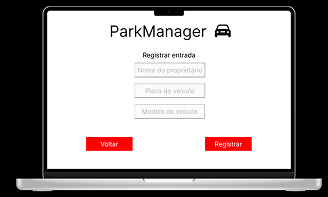
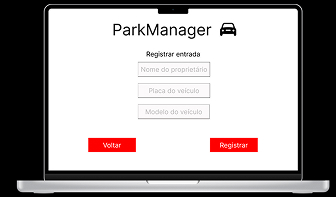
Footer adicionado
Utilizado código ASCII e ícone favicon adicionado

diff --git a/css/style.css b/css/style.css
@@ -12,6 +12,7 @@ main {
     flex-direction: column;
     align-items: center;
     justify-content: center;
+    text-align: center;
 }
 
 .titulo {
@@ -36,7 +37,7 @@ main {
     font-size: 40px;
     font-family: "Gulzar", sans-serif;
     display: flex;
-    margin: 20px;
+    margin: 17px;
 }
 
 .botao {
@@ -65,7 +66,9 @@ main {
 
 .comofunciona {
     font-size: 35px;
-    margin: 55px;
+    margin: 65px 0px 20px 0px;
+    align-items: center;
+    justify-content: center;
 }
 
 .telas {
@@ -81,15 +84,15 @@ main {
 }
 
 .tela2 {
-    width: 656px;
+    width: 672px;
     height: 394px;
     background-size: 100%;
     background-image: url(../img/tela2-desk.jpg);
 }
 
 .tela3 {
-    width: 640px;
-    height: 386px;
+    width: 672px;
+    height: 394px;
     background-size: 100%;
     background-image: url(../img/tela3-desk.jpg);
 }
@@ -98,12 +101,25 @@ main {
     display: flex;
     flex-direction: column;
     align-items: center;
-    text-align: center;
     gap: 50px;
-    margin-top: 50px;
+    margin-top: 110px;
 }
 
 .grupo p {
     font-size: 50px;
     margin-bottom: 10px;
+}
+
+footer {
+    display: flex;
+    font-size: 32px;
+    gap: 10px;
+    justify-content: center;
+    margin: 30px;
+}
+
+.instagram,
+.whatsapp {
+    display: flex;
+    gap: 10px;
 }

diff --git a/index.html b/index.html
@@ -15,6 +15,7 @@
     <link rel="preconnect" href="https://fonts.googleapis.com">
     <link rel="preconnect" href="https://fonts.gstatic.com" crossorigin>
     <link href="https://fonts.googleapis.com/css2?family=Gulzar&display=swap" rel="stylesheet">
+    <link rel="icon" href="./svg/carro-logo.svg" type="image/svg+xml">
     <link rel="stylesheet" href="./css/reset.css">
     <link rel="stylesheet" href="./css/style.css">
     <title>ParkManager</title>
@@ -61,6 +62,19 @@
             </div>
         </div>
     </main>
+    <footer>
+        <p>ParkManager &#0174</p>
+        |
+        <div class="instagram">
+            <img src="./svg/instagram-logo.svg" alt="Logo do Instagram">
+            <p>@ParkManager</p>
+        </div>
+        |
+        <div class="whatsapp">
+            <img src="./svg/whatsapp-logo.svg" alt="Logo do WhatsApp">
+            <p>(11) 94440-5068</p>
+        </div>
+    </footer>
 </body>
 
 </html>
